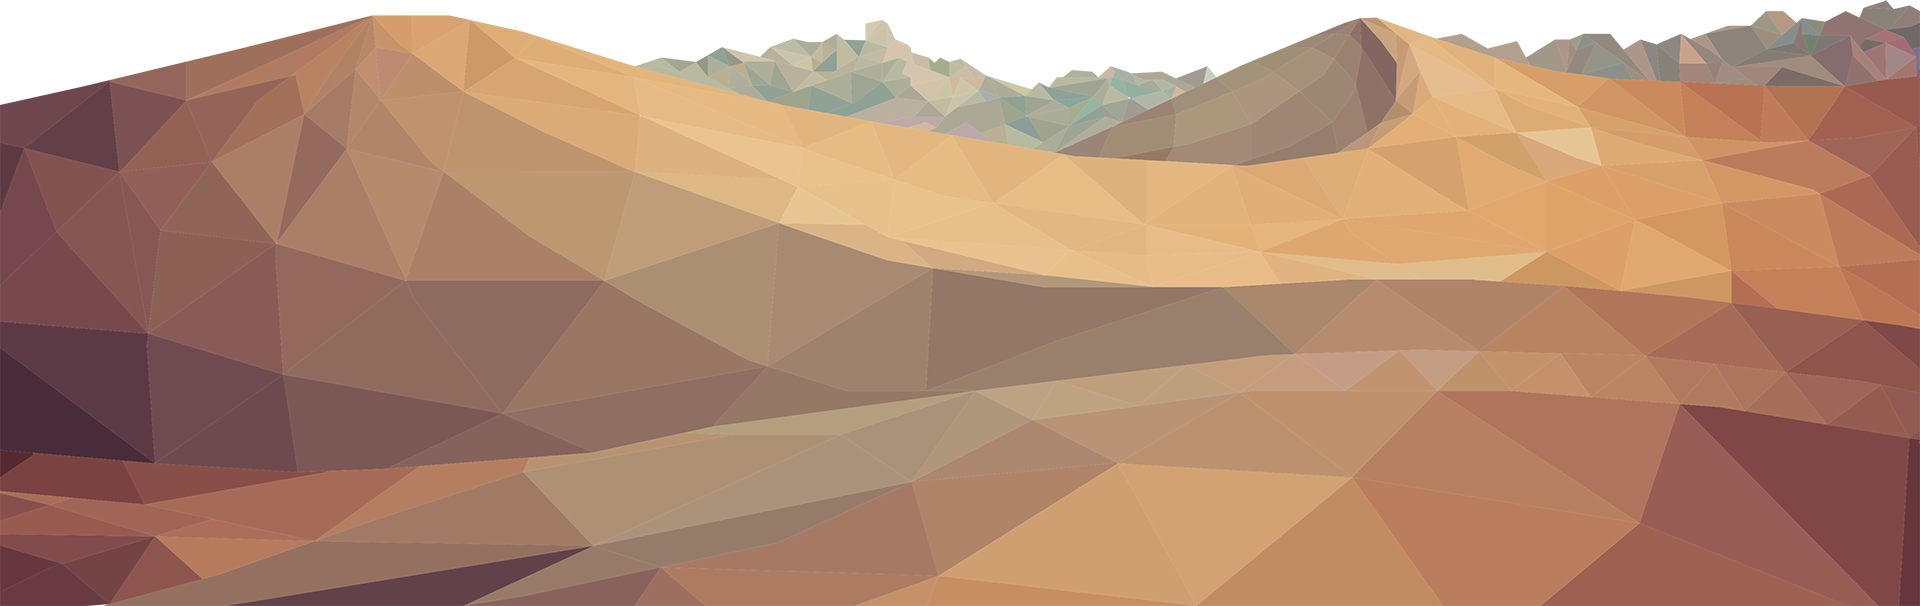
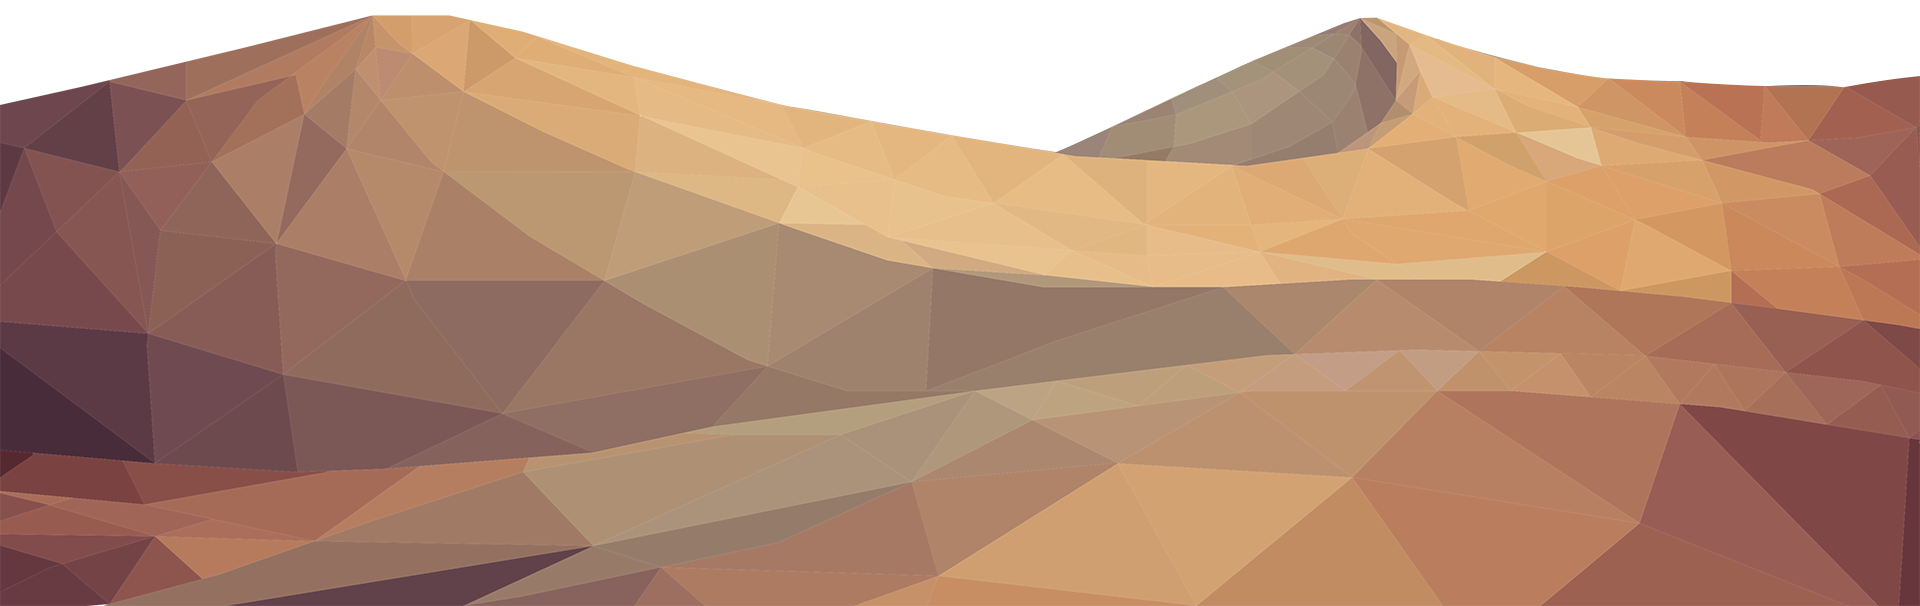
updates

Changed region(s): [[0.3125, 0.0297, 0.6562, 0.2673], [0.75, 0.0, 1.0, 0.1485]]

diff --git a/js/timeline.js b/js/timeline.js
@@ -13,11 +13,10 @@ initScrollAnimations();
 function initScrollAnimations() {
   $('#content-wrapper').css('display','block');
   var controller = $.superscrollorama();
- 
-  controller.pin($('#scene1'), 17000, {
+  controller.pin($('#scene1'), 19500, {
                   anim: (new TimelineLite())
 				  	.append(
-                   TweenMax.from($('#welcome'), 1, 
+                   TweenMax.from($('#welcome'), 0.7, 
                                     {css:{opacity:1, top: 90, scaleX: 1, scaleY: 1}, immediateRender:true}, 
                                     {css:{opacity: 0, top: 60, scaleX: 0, scaleY: 0}}),
 									-2
@@ -42,12 +41,11 @@ function initScrollAnimations() {
 							-0.8
 									
                    )
-
 				   .append(
-                   TweenMax.fromTo($('#sky'), 1, 
+                   TweenMax.fromTo($('#sky'), 0.8, 
                                     {css:{top: -8500}, immediateRender:true}, 
                                     {css:{top: 0}}),
-									-1.6
+									-1.4
                    )
 				   .append(
                    TweenMax.fromTo($('#move-mid'), 1, 
@@ -63,44 +61,44 @@ function initScrollAnimations() {
 									-1
 					)
 					.append(
+                   TweenMax.fromTo($('#move-backg'), 1.45, 
+                                    {css:{bottom: -210}, immediateRender:true}, 
+                                    {css:{bottom: -850}}),
+									-1.1
+					)
+					.append(
                    TweenMax.from($('#introtext'), 1, 
                                     {css:{opacity:0.9, 'letter-spacing':'10px'}, immediateRender:true}, 
                                     {css:{opacity:0, 'letter-spacing':'40px'}})
-					
 					)
-
 				   .append(
                    TweenMax.fromTo($('#fling-it-right'), 1, 
                                     {css:{left:840, top: 200, scaleX: 1, scaleY: 1}, immediateRender:true}, 
-                                    {css:{left:190, top: 360, scaleX: 2.7, scaleY: 2.7}})
-							
-									
+                                    {css:{left:160, top: 390, scaleX: 2.7, scaleY: 2.7}})	
                    )
                    .append(
                    TweenMax.fromTo($('#fling-it'), 1, 
                                     {css:{left:100, top: 20, scaleX: 1, scaleY: 1}, immediateRender:true}, 
-                                    {css:{left:640, top: 10, scaleX: 0.4, scaleY: 0.4}}),
-									-1
-									
+                                    {css:{left:640, top: 5, scaleX: 0.4, scaleY: 0.4}}),
+									-1		
                    )
 				   .append(
                    TweenMax.fromTo($('#stars'), 1.7, 
                                     {css:{top: -280, opacity: 0}, immediateRender:true}, 
                                     {css:{top: 0, opacity: 1}}),
-									-0.9
-																		
+									-0.9													
                    )
 				.append(
-                   TweenMax.fromTo($('#belt'), 2, 
+                   TweenMax.fromTo($('#belt'), 1.7, 
                                     {css:{opacity: 0}, immediateRender:true}, 
-                                    {css:{opacity: 0.7}}),
-									0.5																		
+                                    {css:{opacity: 0.8}}),
+										-0.2
                    )
 				 .append(
-                   TweenMax.fromTo($('#infobox'), 1.1, 
+                   TweenMax.fromTo($('#infobox'), 1, 
                                     {css:{opacity: 0, bottom: -250}, immediateRender:true}, 
                                     {css:{opacity: 1, bottom: 50}}),
-									-1															
+									-0.3														
                    )
 				.append(
                    TweenMax.fromTo($('#fling-it-right'), 1, 
@@ -118,8 +116,7 @@ function initScrollAnimations() {
                    TweenMax.fromTo($('#infobox'), 0.9, 
                                     {css:{bottom: 50}, immediateRender:true}, 
                                     {css:{bottom: -250}}),
-									-1.4
-																							
+									-1.4																
                    )
                   })
   

diff --git a/css/styles.css b/css/styles.css
@@ -98,7 +98,7 @@ body {
 }
 #introtext {
 	position: absolute;
-	top: 415px;
+	top: 405px;
 	margin: 0 auto;
 	width: 100%;
 	max-width: 100%;
@@ -152,26 +152,26 @@ body {
 	transform: rotate(180deg);
 }
 @-webkit-keyframes flash {
-  0%   { opacity: 0; letter-spacing: 1.7; }
+  0%   { opacity: 0.3; letter-spacing: 1.7; }
   60% { opacity: 1; letter-spacing: 1; }
-  100% {opacity: 0; letter-spacing: 1.7;}
+  100% {opacity: 0.3; letter-spacing: 1.7;}
 }
 @-moz-keyframes flash {
-  0%   { opacity: 0; letter-spacing: 1.7; }
+  0%   { opacity: 0.3; letter-spacing: 1.7; }
   60% { opacity: 1; letter-spacing: 1; }
-  100% {opacity: 0; letter-spacing: 1.7;}
+  100% {opacity: 0.3; letter-spacing: 1.7;}
 }
 @-o-keyframes flash {
-  0%   { opacity: 0; letter-spacing: 1.7; }
+  0%   { opacity: 0.3; letter-spacing: 1.7; }
   60% { opacity: 1; letter-spacing: 1; }
-  100% {opacity: 0; letter-spacing: 1.7;}
+  100% {opacity: 0.3; letter-spacing: 1.7;}
 }
 @keyframes flash {
-  0%   { opacity: 0; letter-spacing: 1.7; }
+  0%   { opacity: 0.3; letter-spacing: 1.7; }
   60% { opacity: 1; letter-spacing: 1; }
-  100% {opacity: 0; letter-spacing: 1.7;}
+  100% {opacity: 0.3; letter-spacing: 1.7;}
 }
-#scene1 { width: 100%; height: 17000px; overflow: hidden !important; }
+#scene1 { width: 100%; height: 19500px; overflow: hidden !important; }
 #fling-it, #move-it, #fling-it-right { position: fixed; top: 0px; left: 0px; z-index: 9999 !important;}
 section {
 	position:absolute;
@@ -180,10 +180,21 @@ section {
 	width: 100%;
 	max-width: 100%;
 	overflow: hidden;
-	height: 17000px;
+	height: 19500px;
 	z-index: 1 !important;
 }
-
+.backg {
+	position: fixed;
+	bottom: -210px;
+	left: 0px;
+	width: 100%;
+	max-width: 100%;
+	height: 100%;
+	z-index: 2 !important;
+}
+.backg img {
+	max-width: 100%;
+}
 .midground {
 	position: fixed;
 	bottom: 0px;
@@ -191,7 +202,7 @@ section {
 	width: 100%;
 	max-width: 100%;
 	height: 100%;
-	z-index: 2 !important;
+	z-index: 3 !important;
 }
 .midground img {
 	max-width: 100%;
@@ -260,7 +271,6 @@ section {
 	background: linear-gradient(to bottom, rgba(64,167,165,1) 0%, rgba(171,209,173,1) 100%);
 	filter: progid:DXImageTransform.Microsoft.gradient( startColorstr='#40a7a5', endColorstr='#abd1ad', GradientType=0 );
 }
-
 .spinner-text {position:fixed;top:41.5%;left:45%;margin:16px 0 0 35px;font-size:15px;font-family: 'Droid Sans', sans-serif;color:#EEE;letter-spacing:3.5px;font-weight:400}
 .spinner {
   margin:0;

diff --git a/index.html b/index.html
@@ -29,7 +29,7 @@
 		<img id="fling-it" style="max-width: 27%;" src="img/b_p.png">
 		<img id="fling-it-right" width="10%" src="img/s_p.png">
 		</div>
-</section>	
+</section>	<div class="backg" id="move-backg"><img src="img/back.png"></div>
 			<div class="midground" id="move-mid"><img src="img/mid.png"></div>
 			<div class="foreground" id="move-fore"><img src="img/fore.png"></div>
 			<div id="infobox">
